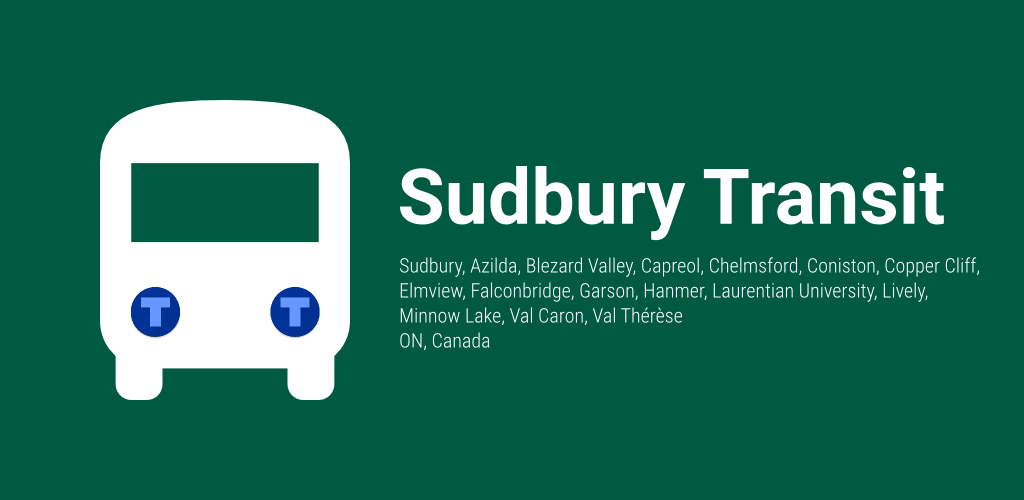
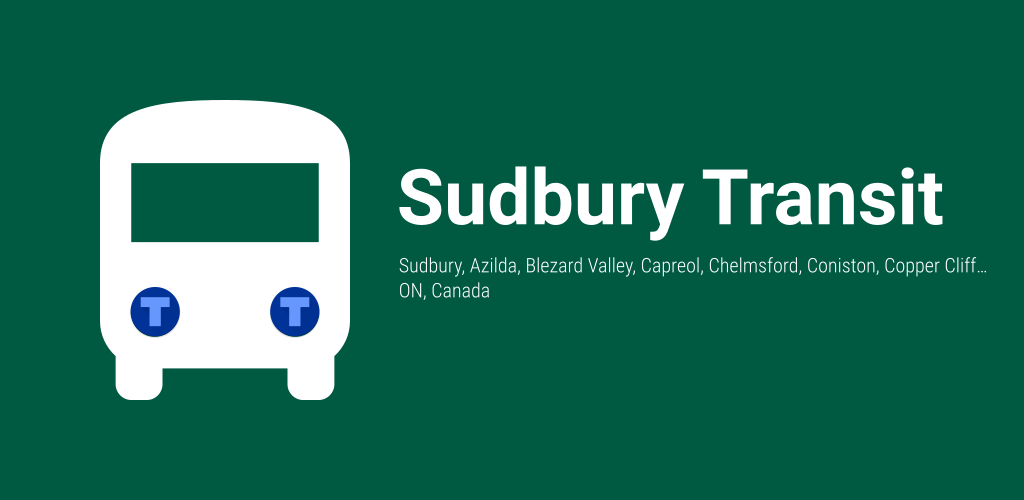
wip

diff --git a/README.md b/README.md
@@ -1,8 +1,9 @@
-# Greater Sudbury Transit Bus for [MonTransit](https://github.com/mtransitapps/mtransit-for-android)
+<!-- DO NOT EDIT: this file is generated by MTREADME.md.MT.sh -->
+# Greater Sudbury Transit buses for [MonTransit](https://github.com/mtransitapps/mtransit-for-android)
 
 <img width="25%" height="25%" src="app-android/src/main/play/listings/en-US/graphics/icon/1.png"/>
 
-## Download on Google Play
+## Download on the Play Store
 
 <a href="https://play.google.com/store/apps/details?id=org.mtransit.android.ca_sudbury_transit_bus"><img width="25%" height="25%" src="https://play.google.com/intl/en_us/badges/static/images/badges/en_badge_web_generic.png"/></a>
 
@@ -16,9 +17,7 @@
 
 ## Social
 
-* [Facebook](https://www.facebook.com/MonTransit)
-
-* [Twitter](https://twitter.com/montransit)
+[Facebook](https://www.facebook.com/MonTransit) | [Twitter/X](https://twitter.com/montransit) | [Instagram](https://www.instagram.com/mtransit.apps) | [Threads](https://www.threads.com/@mtransit.apps)
 
 ## BETA program
 